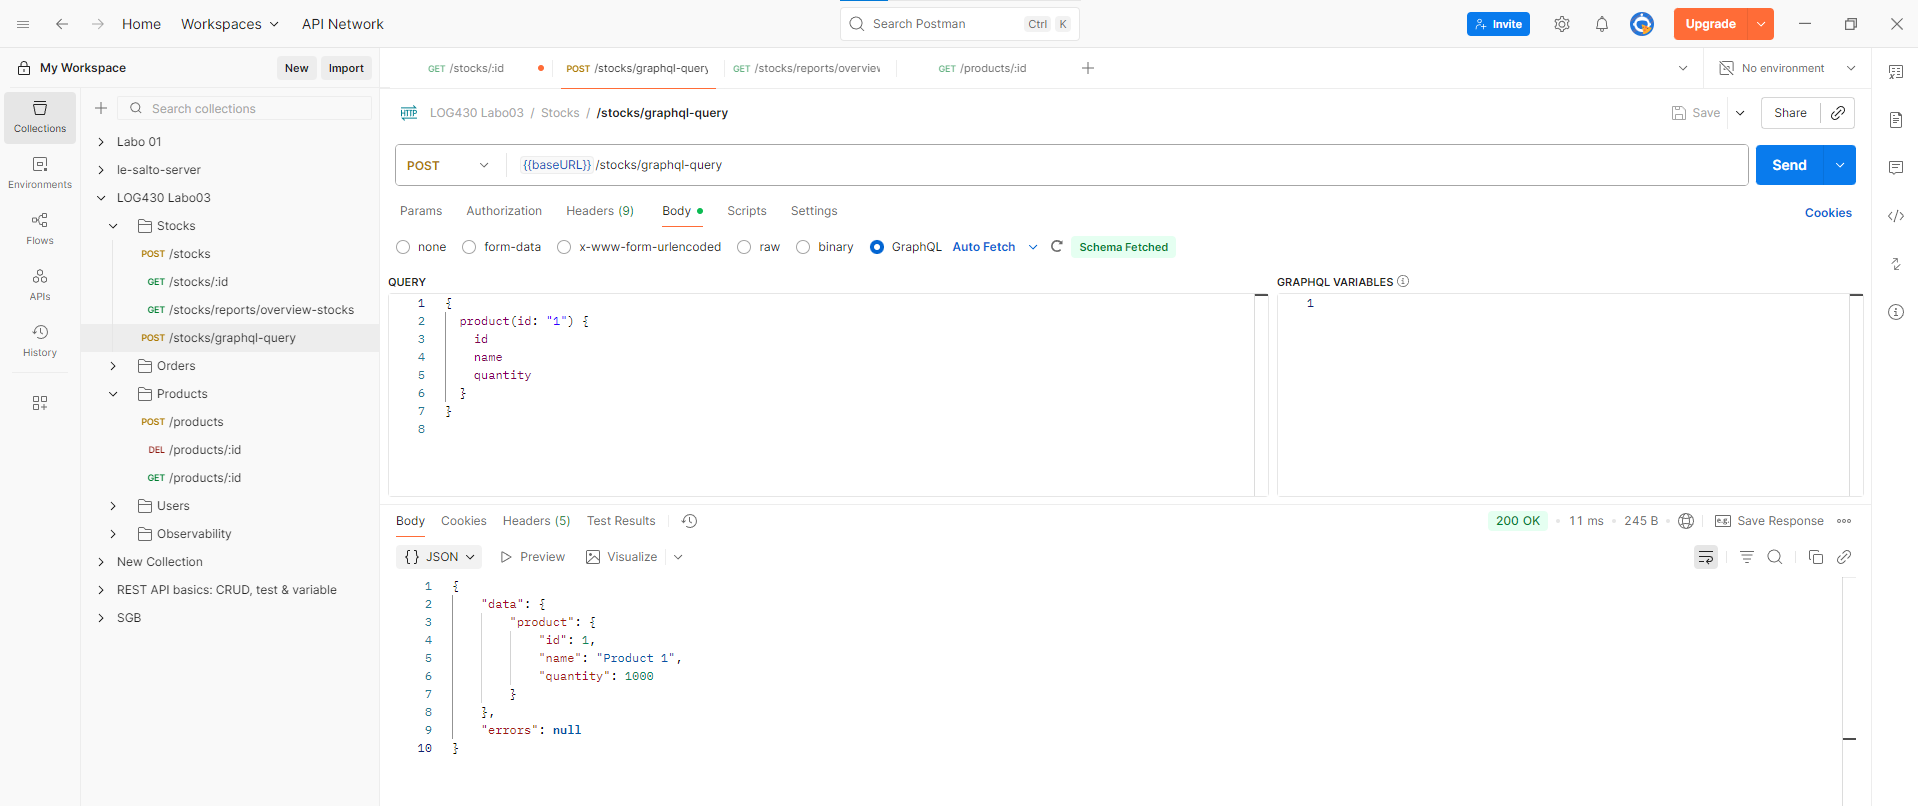
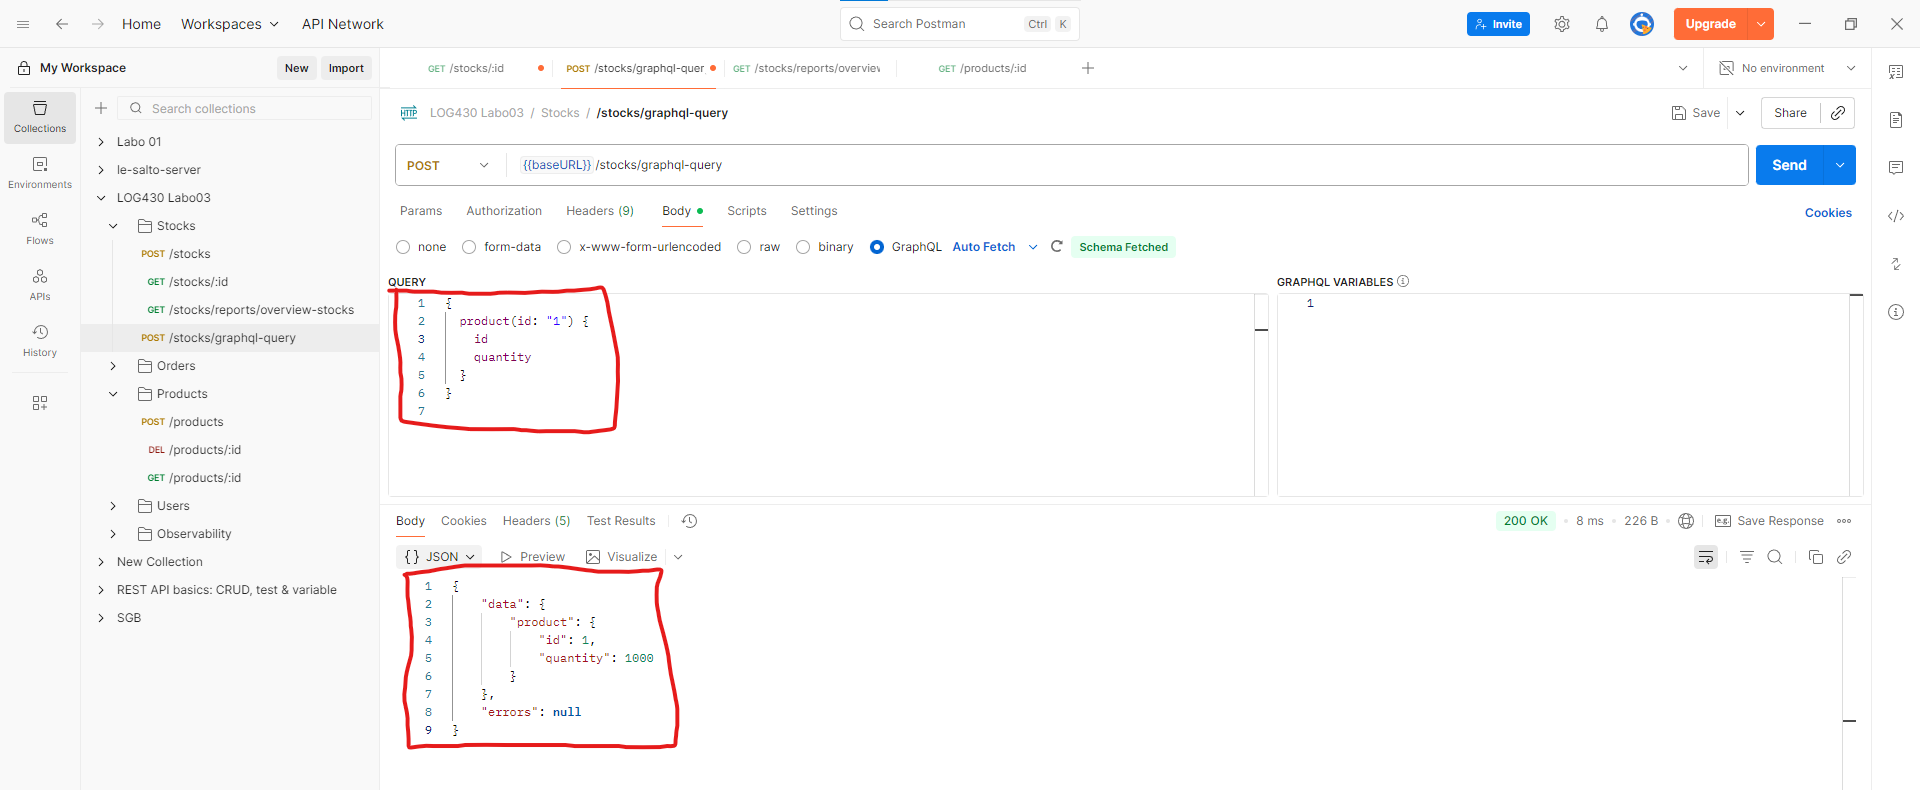
etape 4

diff --git a/src/stocks/commands/write_stock.py b/src/stocks/commands/write_stock.py
@@ -6,15 +6,16 @@ Auteurs : Gabriel C. Ullmann, Fabio Petrillo, 2025
 from sqlalchemy import text
 from stocks.models.stock import Stock
 from db import get_redis_conn, get_sqlalchemy_session
+from stocks.queries.read_product import get_product_by_id
 
 def set_stock_for_product(product_id, quantity):
     """Set stock quantity for product in MySQL"""
     session = get_sqlalchemy_session()
-    try: 
+    try:
         result = session.execute(
             text(f"""
-                UPDATE stocks 
-                SET quantity = :qty 
+                UPDATE stocks
+                SET quantity = :qty
                 WHERE product_id = :pid
             """),
             {"pid": product_id, "qty": quantity}
@@ -23,10 +24,10 @@ def set_stock_for_product(product_id, quantity):
         if result.rowcount == 0:
             new_stock = Stock(product_id=product_id, quantity=quantity)
             session.add(new_stock)
-            session.flush() 
+            session.flush()
             session.commit()
             response_message = f"rows added: {new_stock.product_id}"
-  
+
         r = get_redis_conn()
         r.hset(f"stock:{product_id}", "quantity", quantity)
         return response_message
@@ -35,7 +36,7 @@ def set_stock_for_product(product_id, quantity):
         raise e
     finally:
         session.close()
-    
+
 def update_stock_mysql(session, order_items, operation):
     """ Update stock quantities in MySQL according to a given operation (+/-) """
     try:
@@ -48,19 +49,19 @@ def update_stock_mysql(session, order_items, operation):
                 qty = item['quantity']
             session.execute(
                 text(f"""
-                    UPDATE stocks 
-                    SET quantity = quantity {operation} :qty 
+                    UPDATE stocks
+                    SET quantity = quantity {operation} :qty
                     WHERE product_id = :pid
                 """),
                 {"pid": pid, "qty": qty}
             )
     except Exception as e:
         raise e
-    
+
 def check_out_items_from_stock(session, order_items):
     """ Decrease stock quantities in Redis """
     update_stock_mysql(session, order_items, "-")
-    
+
 def check_in_items_to_stock(session, order_items):
     """ Increase stock quantities in Redis """
     update_stock_mysql(session, order_items, "+")
@@ -80,19 +81,29 @@ def update_stock_redis(order_items, operation):
             else:
                 product_id = item['product_id']
                 quantity = item['quantity']
+
             # TODO: ajoutez plus d'information sur l'article
             current_stock = r.hget(f"stock:{product_id}", "quantity")
             current_stock = int(current_stock) if current_stock else 0
-            
+
+            product = get_product_by_id(product_id)
+
             if operation == '+':
                 new_quantity = current_stock + quantity
-            else:  
+            else:
                 new_quantity = current_stock - quantity
-            
-            pipeline.hset(f"stock:{product_id}", "quantity", new_quantity)
-        
+
+            pipeline.hset(
+                f"stock:{product_id}",
+                mapping={
+                    "name": product['name'],
+                    "sku": product['sku'],
+                    "price": product['price'],
+                    "quantity": new_quantity
+                }
+            )
         pipeline.execute()
-    
+
     else:
         _populate_redis_from_mysql(r)
 
@@ -101,24 +112,37 @@ def _populate_redis_from_mysql(redis_conn):
     session = get_sqlalchemy_session()
     try:
         stocks = session.execute(
-            text("SELECT product_id, quantity FROM stocks")
+            text("""
+                 SELECT s.product_id,
+                        p.name,
+                        p.sku,
+                        p.price,
+                        s.quantity
+                 FROM stocks as s
+                 JOIN products as p on p.id = s.product_id
+                """)
         ).fetchall()
 
         if not len(stocks):
             print("Il n'est pas nécessaire de synchronisér le stock MySQL avec Redis")
             return
-        
+
         pipeline = redis_conn.pipeline()
-        
-        for product_id, quantity in stocks:
+
+        for product_id, name, sku, price, quantity in stocks:
             pipeline.hset(
-                f"stock:{product_id}", 
-                mapping={ "quantity": quantity }
+                f"stock:{product_id}",
+                mapping={
+                    "name": name,
+                    "sku": sku,
+                    "price": str(price),
+                    "quantity": quantity
+                }
             )
-        
+
         pipeline.execute()
         print(f"{len(stocks)} enregistrements de stock ont été synchronisés avec Redis")
-        
+
     except Exception as e:
         print(f"Erreur de synchronisation: {e}")
         raise e

diff --git a/src/stocks/schemas/query.py b/src/stocks/schemas/query.py
@@ -15,7 +15,9 @@ class Query(ObjectType):
         if product_data:
             return Product(
                 id=id,
-                name=f"Product {id}",
+                name=product_data['name'],
+                sku=product_data['sku'],
+                price=float(product_data['price']),
                 quantity=int(product_data['quantity'])
             )
         return None

diff --git a/src/stocks/schemas/product.py b/src/stocks/schemas/product.py
@@ -3,4 +3,6 @@ from graphene import ObjectType, String, Int, Float
 class Product(ObjectType):
     id = Int()
     name = String()
+    sku = String()
+    price = Float()
     quantity = Int()

diff --git a/rapport/CHARLEBOIS_MARC_LOG430_LAB1.md b/rapport/CHARLEBOIS_MARC_LOG430_LAB1.md
@@ -80,7 +80,7 @@ UNIVERSITÉ DU QUÉBEC
   - [**Question 3**](#question-3)
   - [**Question 4**](#question-4)
   - [**Question 5**](#question-5)
-  - [\**Question 6*](#question-6)
+  - [**Question 6**](#question-6)
 
 <br>
 <br>
@@ -150,7 +150,7 @@ def get_stock_for_all_products():
 
 > Quels résultats avez-vous obtenus en utilisant l’endpoint POST /stocks/graphql avec la requête suggérée ? Veuillez joindre la sortie de votre requête dans Postman afin d’illustrer votre réponse.
 
-En utilisant l’endpoint `POST` `/stocks/graphql-query` avec la requête GraphQL suggérée, nous avons obtenu en sortie un objet JSON contenant les informations du produit avec l’`id = 1`. Plus précisément, la réponse inclut les champs demandés `id`, `quantity` et `name`, ce qui montre la capacité de l’endpoint à gérer dynamiquement les attributs retournés. Le résultat était le suivant :
+En utilisant l’endpoint `POST` `/stocks/graphql-query` avec la requête GraphQL suggérée, nous avons obtenu en sortie un objet JSON contenant les informations du produit avec l’`id = 1`. Plus précisément, la réponse inclut les champs demandés `id` et `quantity`, ce qui montre la capacité de l’endpoint à gérer dynamiquement les attributs retournés. Le résultat était le suivant :
 
 ![alt text](question3.png)
 
@@ -159,14 +159,60 @@ En utilisant l’endpoint `POST` `/stocks/graphql-query` avec la requête GraphQ
 
 > Quelles lignes avez-vous changez dans update_stock_redis? Veuillez joindre du code afin d’illustrer votre réponse.
 
+J’ai modifié la fonction update_stock_redis en ajoutant un appel à `get_product_by_id(product_id)` pour récupérer les informations complètes du produit (`name`, `sku`, `price`), puis je les ai intégrées directement dans le `pipeline.hset` en plus de la `quantity` qui était déjà présente. Ainsi, chaque entrée Redis pour un produit contient désormais toutes les informations nécessaires pour que l’endpoint GraphQL puisse les exposer.
+
+```Python
+def update_stock_redis(order_items, operation):
+    """ Update stock quantities in Redis """
+    if not order_items:
+        return
+    r = get_redis_conn()
+    stock_keys = list(r.scan_iter("stock:*"))
+    if stock_keys:
+        pipeline = r.pipeline()
+        for item in order_items:
+            if hasattr(item, 'product_id'):
+                product_id = item.product_id
+                quantity = item.quantity
+            else:
+                product_id = item['product_id']
+                quantity = item['quantity']
+
+            current_stock = r.hget(f"stock:{product_id}", "quantity")
+            current_stock = int(current_stock) if current_stock else 0
+
+            product = get_product_by_id(product_id)
+
+            if operation == '+':
+                new_quantity = current_stock + quantity
+            else:
+                new_quantity = current_stock - quantity
+
+            pipeline.hset(
+                f"stock:{product_id}",
+                mapping={
+                    "name": product['name'],
+                    "sku": product['sku'],
+                    "price": product['price'],
+                    "quantity": new_quantity
+                }
+            )
+        pipeline.execute()
+
+    else:
+        _populate_redis_from_mysql(r)
+```
 
 
 ### **Question 5**
 
 > Quels résultats avez-vous obtenus en utilisant l’endpoint POST /stocks/graphql avec les améliorations ? Veuillez joindre la sortie de votre requête dans Postman afin d’illustrer votre réponse.
 
+Après l’ajout des champs name, sku et price dans le schéma GraphQL et l’enrichissement de Redis, l’endpoint `POST /stocks/graphql-query` retourne désormais toutes les informations demandées pour un produit. En exécutant la même requête, mais en ajoutant les nouveaux champs `sku`, `name` et `price`, ce qui m'a donné le résultat suivant:
+
+![alt text](question5.png)
 
 
-### **Question 6*
+### **Question 6**
 
 Examinez attentivement le fichier docker-compose.yml du répertoire scripts, ainsi que celui situé à la racine du projet. Qu’ont-ils en commun ? Par quel mécanisme ces conteneurs peuvent-ils communiquer entre eux ? Veuillez joindre du code YML afin d’illustrer votre réponse.
